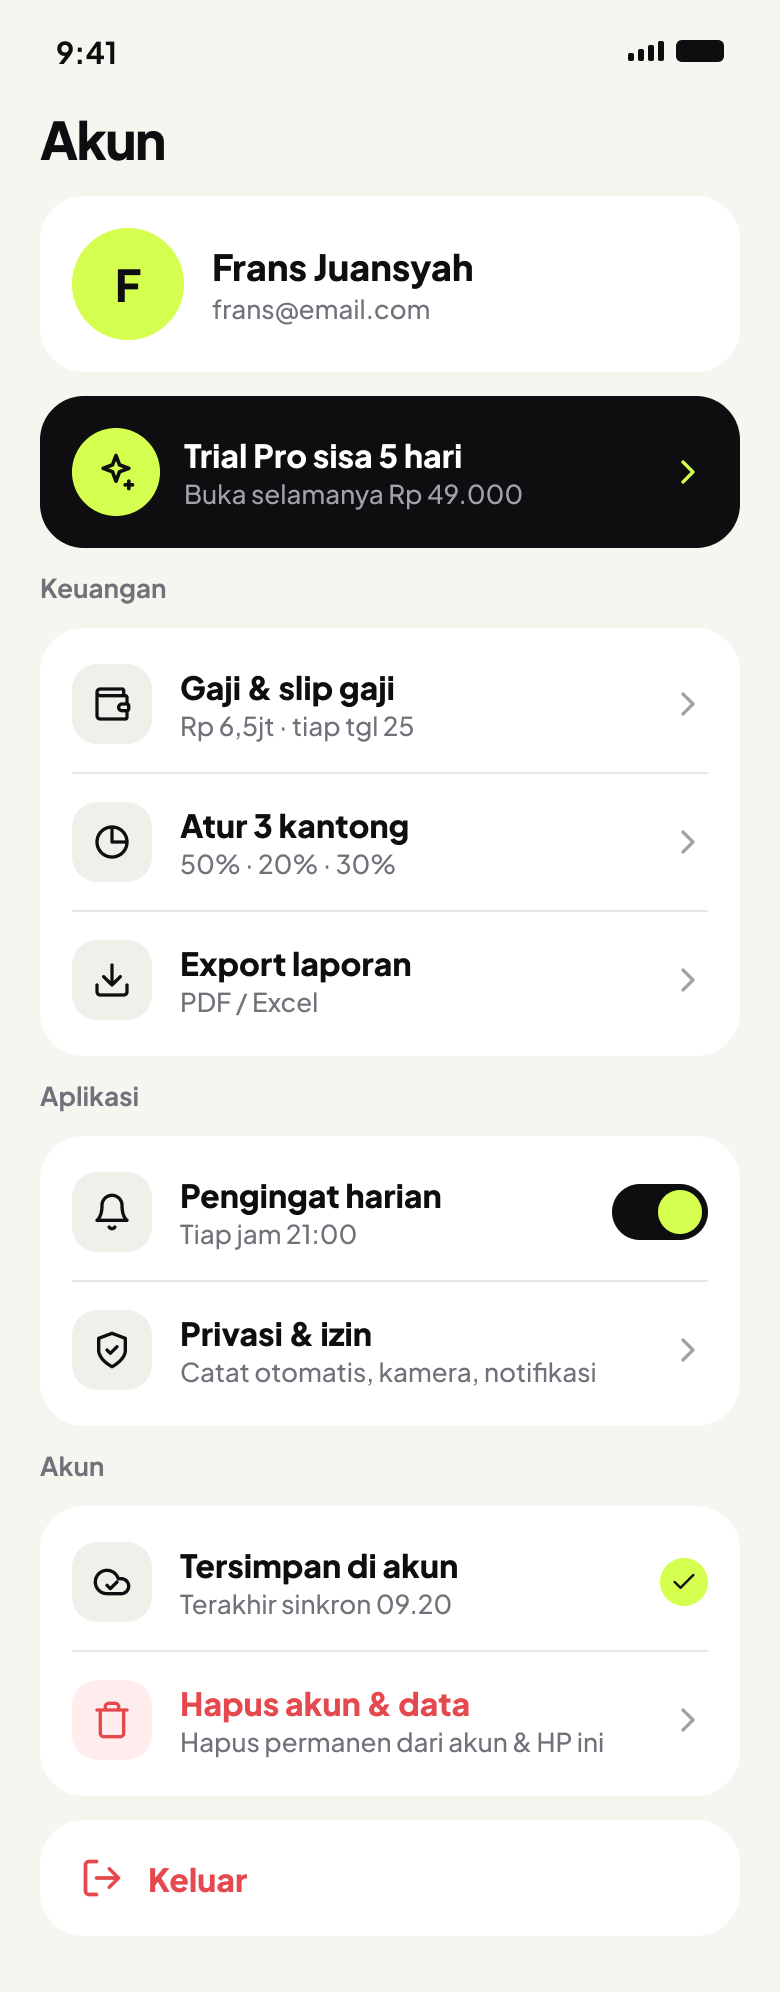
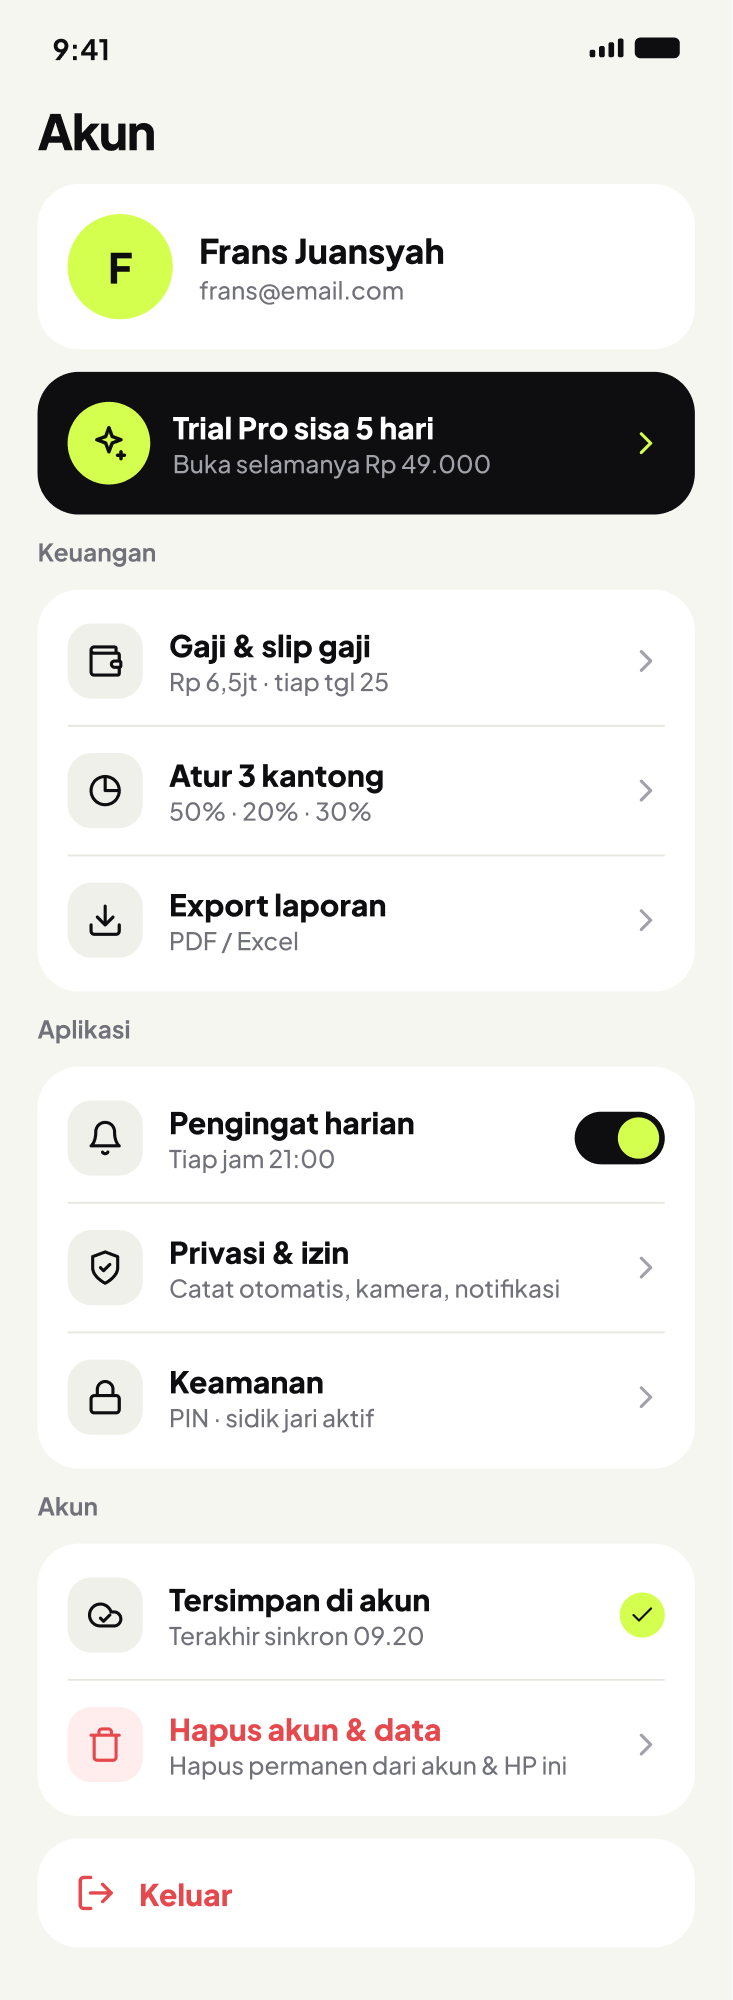
Desain: keamanan PIN & sidik jari (56-58), baris Keamanan di Akun

diff --git a/design/DESIGN.md b/design/DESIGN.md
@@ -167,13 +167,16 @@ File PNG: `screens/NN-nama.png` (lihat [`screens/README.md`](screens/README.md))
 | 46 | Scan struk kebaca | Sama dengan 04, sudut bracket menyatu jadi bingkai lime penuh, garis scan berhenti, hint lime "Kebaca! Tahan bentar…" | Otomatis → 09 |
 | 47 | Masuk pakai email | Back, "Masuk pakai email", sub "Kami kirim kode 6 angka…", field Email (ikon mail, border ink saat fokus), info gembok "Datamu tersimpan di akun…", Kirim kode | → 48 |
 | 48 | Masukin kode | Back, "Cek emailmu", 6 kotak angka (kotak aktif border ink), "Belum masuk? Kirim ulang 0:42", keypad angka tanpa 000. Angka ke-6 → langsung dicek (tanpa tombol). Akun & HP sama-sama berisi → sheet "Akun ini udah ada isinya" | Akun kosong → data HP diunggah · HP kosong → tarik data akun → 03 · belum ada budget → 27 |
-| 49 | Akun (sudah masuk) | Seperti 17 + email di kartu profil, section **Akun**: "Tersimpan di akun · Terakhir sinkron 09.20" (badge check lime; gagal → cloud-off merah), "Hapus akun & data" (merah), kartu Keluar merah | Keluar → 51 · Hapus → 52 |
+| 49 | Akun (sudah masuk) | Seperti 17 + email di kartu profil, baris "Keamanan · PIN · sidik jari aktif" di kartu Aplikasi (→ 56), section **Akun**: "Tersimpan di akun · Terakhir sinkron 09.20" (badge check lime; gagal → cloud-off merah), "Hapus akun & data" (merah), kartu Keluar merah | Keluar → 51 · Hapus → 52 |
 | 50 | Akun (belum masuk) | Kartu lime "Simpan datamu ke akun · Aman kalau HP hilang atau ganti HP" + tombol "Masuk pakai email" menggantikan kartu profil; tanpa section Akun & Keluar | → 47 |
 | 51 | Keluar | Sheet di atas 49: ikon logout merah, "Keluar dari akun?", "Datamu tetap aman di akun…", Keluar (merah penuh) / Batal. Ada perubahan belum terkirim (offline) → sheet "Ada yang belum tersimpan" / Tetap keluar | → 01 |
 | 52 | Hapus akun | Sheet di atas 49: ikon sampah merah, "Hapus akun & semua data?", field "Ketik HAPUS buat lanjut", Hapus permanen (aktif setelah ketik HAPUS) / Batal | → 01 |
 | 53 | Buka catat. Pro | Bg ink, tombol X, pil lime "PRO", "Buka catat. Pro", "Sekali bayar, kepake selamanya. Nggak ada langganan.", pil status trial ("Trial sisa 3 hari" / "Trial kamu udah habis" merah), kartu gelap 3 fitur (Scan struk otomatis, Catat otomatis, Export PDF & Excel) + centang lime, harga "Rp 49.000 · sekali bayar · selamanya" (harga dari Google Play), "Bayar lewat Google Play: DANA, GoPay, OVO, ShopeePay, pulsa, atau kartu", tombol lime "Buka Pro · Rp 49.000", "Pulihkan pembelian". Dibuka dari kartu Pro (55) atau saat fitur Pro diketuk setelah trial habis | Bayar → 54 · X → kembali |
 | 54 | Pro kebuka! | Bg lime + pita (animasi perayaan), ikon sparkles 96 ink, "Pro kebuka!", "Scan struk, catat otomatis & export bisa kamu pakai selamanya.", Mantap | → kembali ke fitur yang tadi dibuka / 03 |
 | 55 | Akun (trial Pro) | Seperti 49 + kartu ink di bawah profil: badge lime sparkles, "Trial Pro sisa 5 hari" / "Trial Pro habis", "Buka selamanya Rp 49.000", chevron lime. Sudah beli → "catat. Pro selamanya" + centang, tanpa chevron | → 53 |
+| 56 | Keamanan | Top bar "Keamanan", kartu: Kunci pakai PIN (toggle), Buka pakai sidik jari (toggle, hanya kalau HP punya), Ganti PIN; label "Kunci setelah keluar dari app" + segmen Langsung / 1 menit (default) / 5 menit; info ungu "Lupa PIN? Masuk lagi pakai email akunmu…". PIN hanya bisa dinyalakan kalau sudah masuk akun | Ganti PIN → 57 |
+| 57 | Bikin PIN | Back, "Bikin PIN 6 angka", "Buat buka catat. Jangan pakai tanggal lahir ya.", 6 titik (terisi ink), keypad angka tanpa 000. Angka ke-6 → "Ulangi PIN" (layar sama), beda → getar + ulang | → 56 |
+| 58 | Terkunci | Bg ink, badge dompet lime, "Masukin PIN", "catat. dikunci biar datamu aman", 6 titik (terisi lime), keypad gelap, kiri bawah ikon sidik jari lime, "Lupa PIN?" → kode ke email akun → PIN direset → 57. 5x salah → tunggu 30 detik | Benar → layar terakhir |
 | 32 | Beranda (penghasilan tidak tetap) | Kartu "Saldo kamu sekarang" + "Masuk bulan ini", 2 kartu cepat Scan struk & Tambah pemasukan. **Tanpa** tombol "+ Pemasukan" di kartu saldo (dobel dengan kartu Tambah pemasukan; keputusan 26 Sep 2026, PNG lama masih menampilkannya) |
 
 ---
